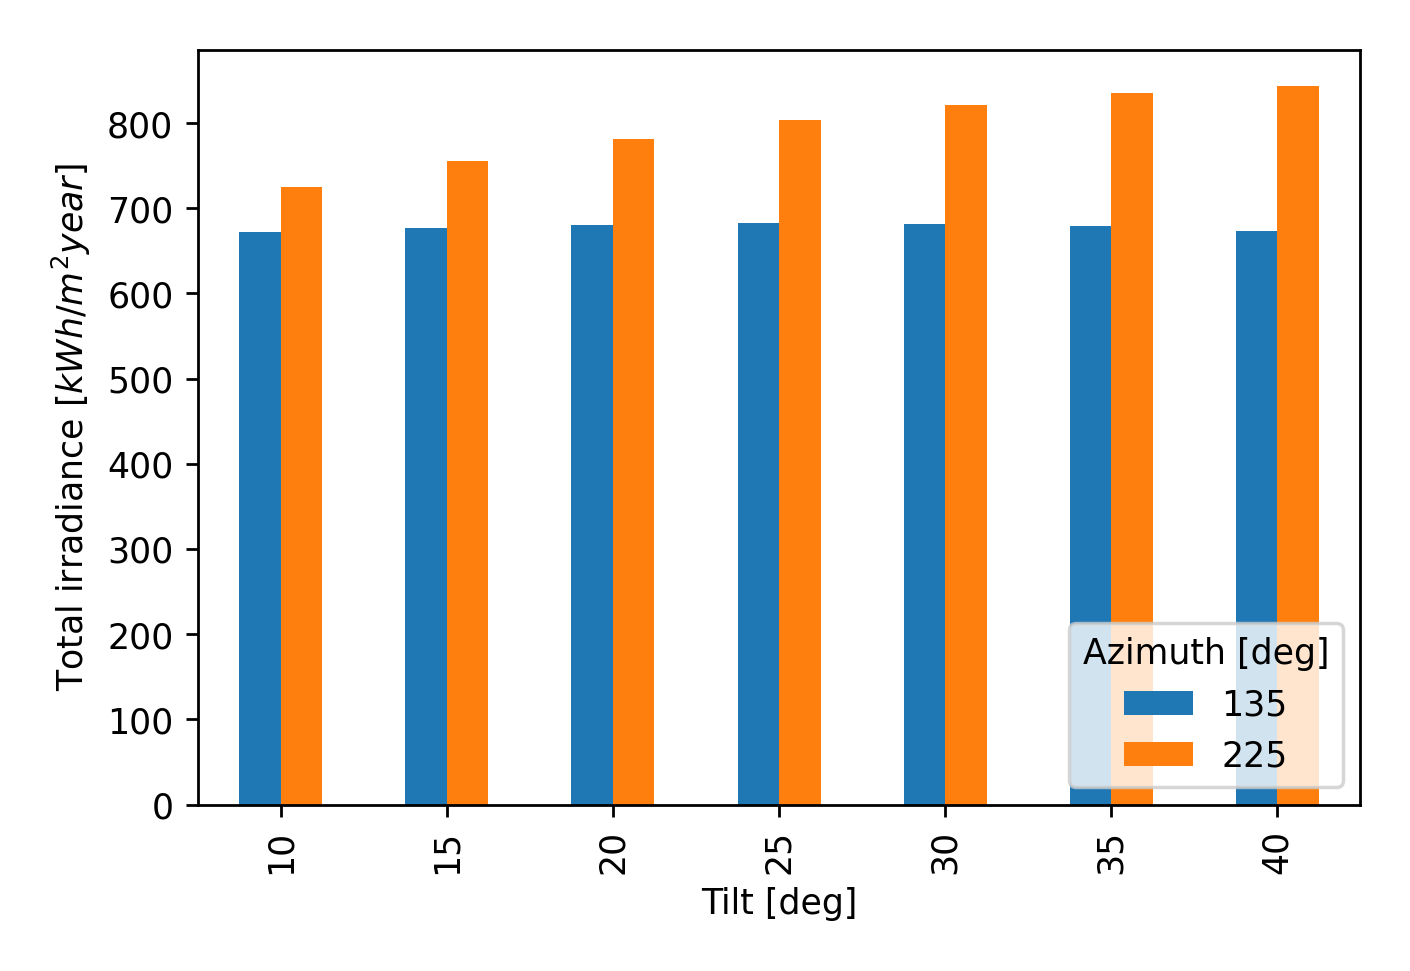
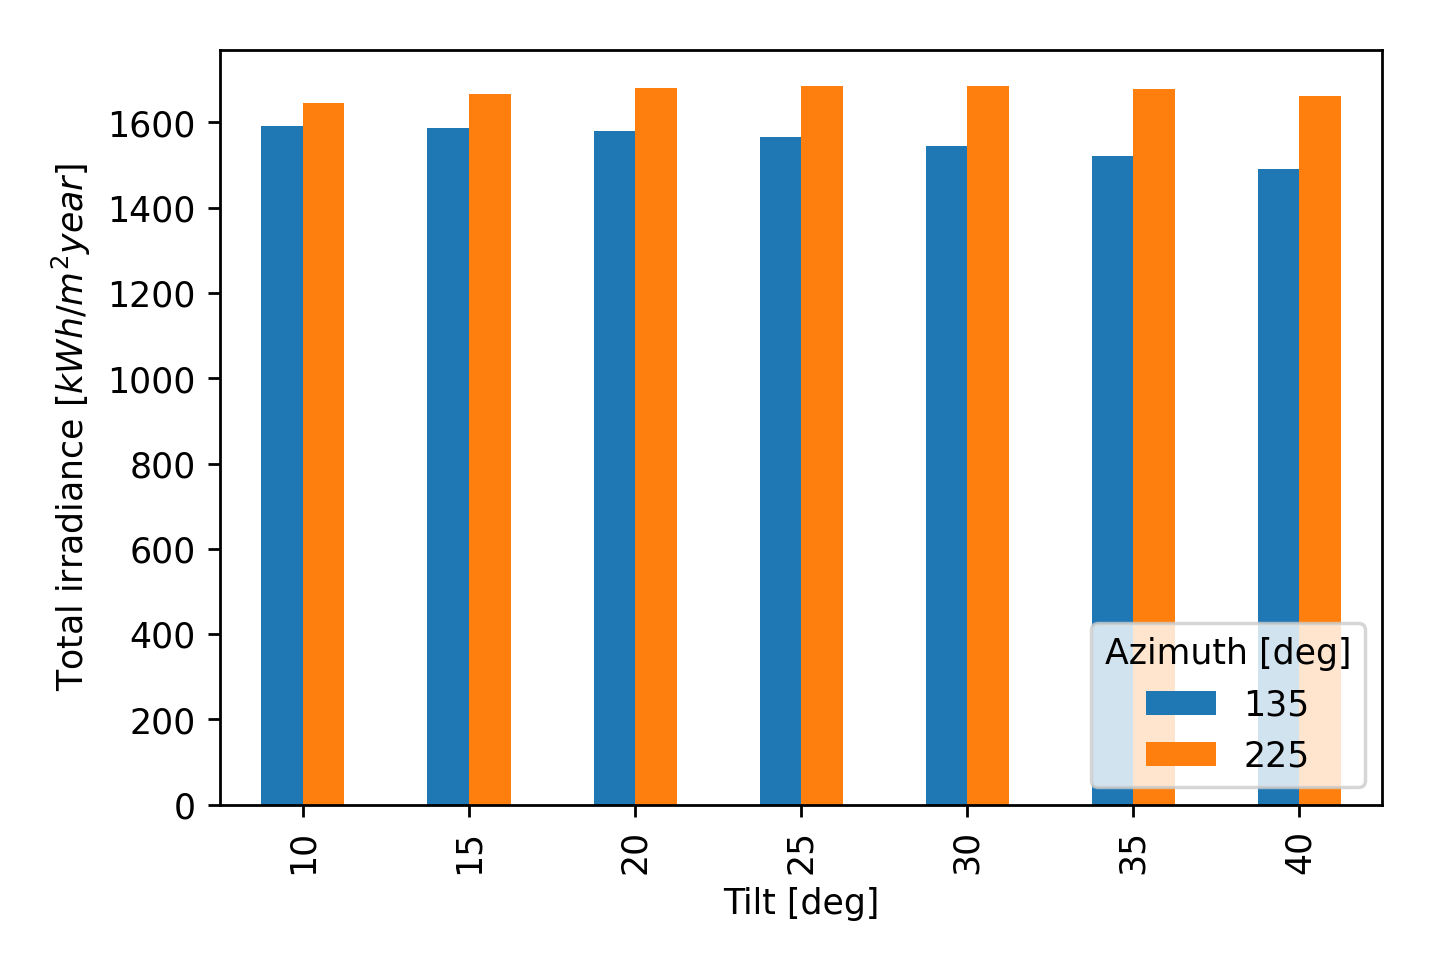
Use the cosine of the solar zenith to calculate the DNI

diff --git a/src/question2.py b/src/question2.py
@@ -1,5 +1,6 @@
 # -*- coding: utf-8 -*-
 
+import math
 import json
 import numpy as np
 import pandas as pd
@@ -19,7 +20,7 @@ irradiance = utils.get_irradiance(filename, latitude=LATITUDE, longitude=LONGITU
 
 # Get the DNI and DHI
 irradiance['DNI'] = utils.calculate_dni('dirindex', irradiance, latitude=LATITUDE, longitude=LONGITUDE)
-irradiance['DHI'] = irradiance.GHI - irradiance.DNI
+irradiance['DHI'] = irradiance.GHI - irradiance.DNI * irradiance.solar_zenith.apply(math.cos)
 
 def calculate_poa(tilt, azimuth, irradiance):
     """
